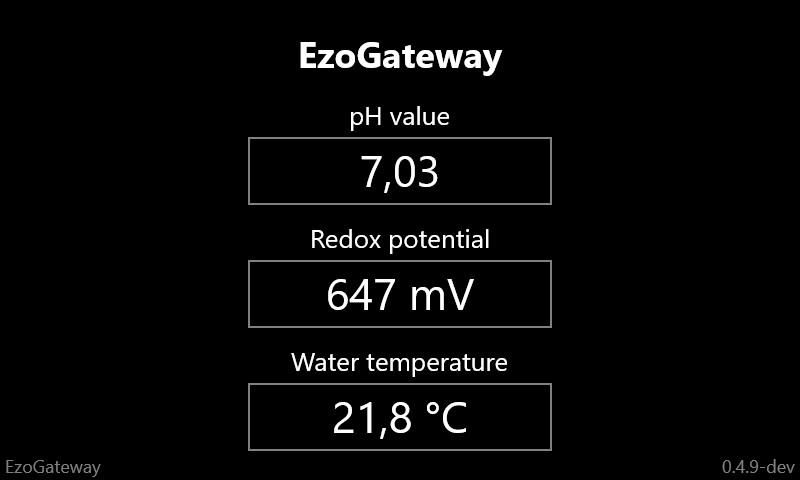
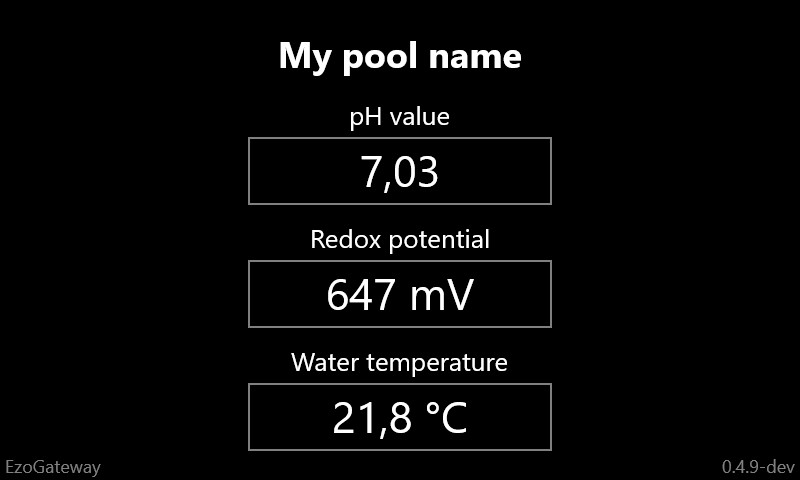
Bugfix: Update custom device name

Changed region(s): [[0.3438, 0.0938, 0.6562, 0.1562]]

diff --git a/source/EzoGateway/MainPage.xaml.cs b/source/EzoGateway/MainPage.xaml.cs
@@ -69,7 +69,13 @@ namespace EzoGateway
         private void Controller_ConfigIsLoadedEvent()
         {
             if (m_Controller.Configuration != null && m_Controller.Configuration.Appearance != null)
-                tbl_Headline.Text = m_Controller.Configuration.Appearance.DeviceName;
+            {
+                tbl_Headline.Dispatcher.RunAsync(Windows.UI.Core.CoreDispatcherPriority.Normal, () =>
+                {
+                    tbl_Headline.Text = m_Controller.Configuration.Appearance.DeviceName;
+                }
+                );
+            }
         }
 
         private void Controller_PropertyChanged(object sender, System.ComponentModel.PropertyChangedEventArgs e)
